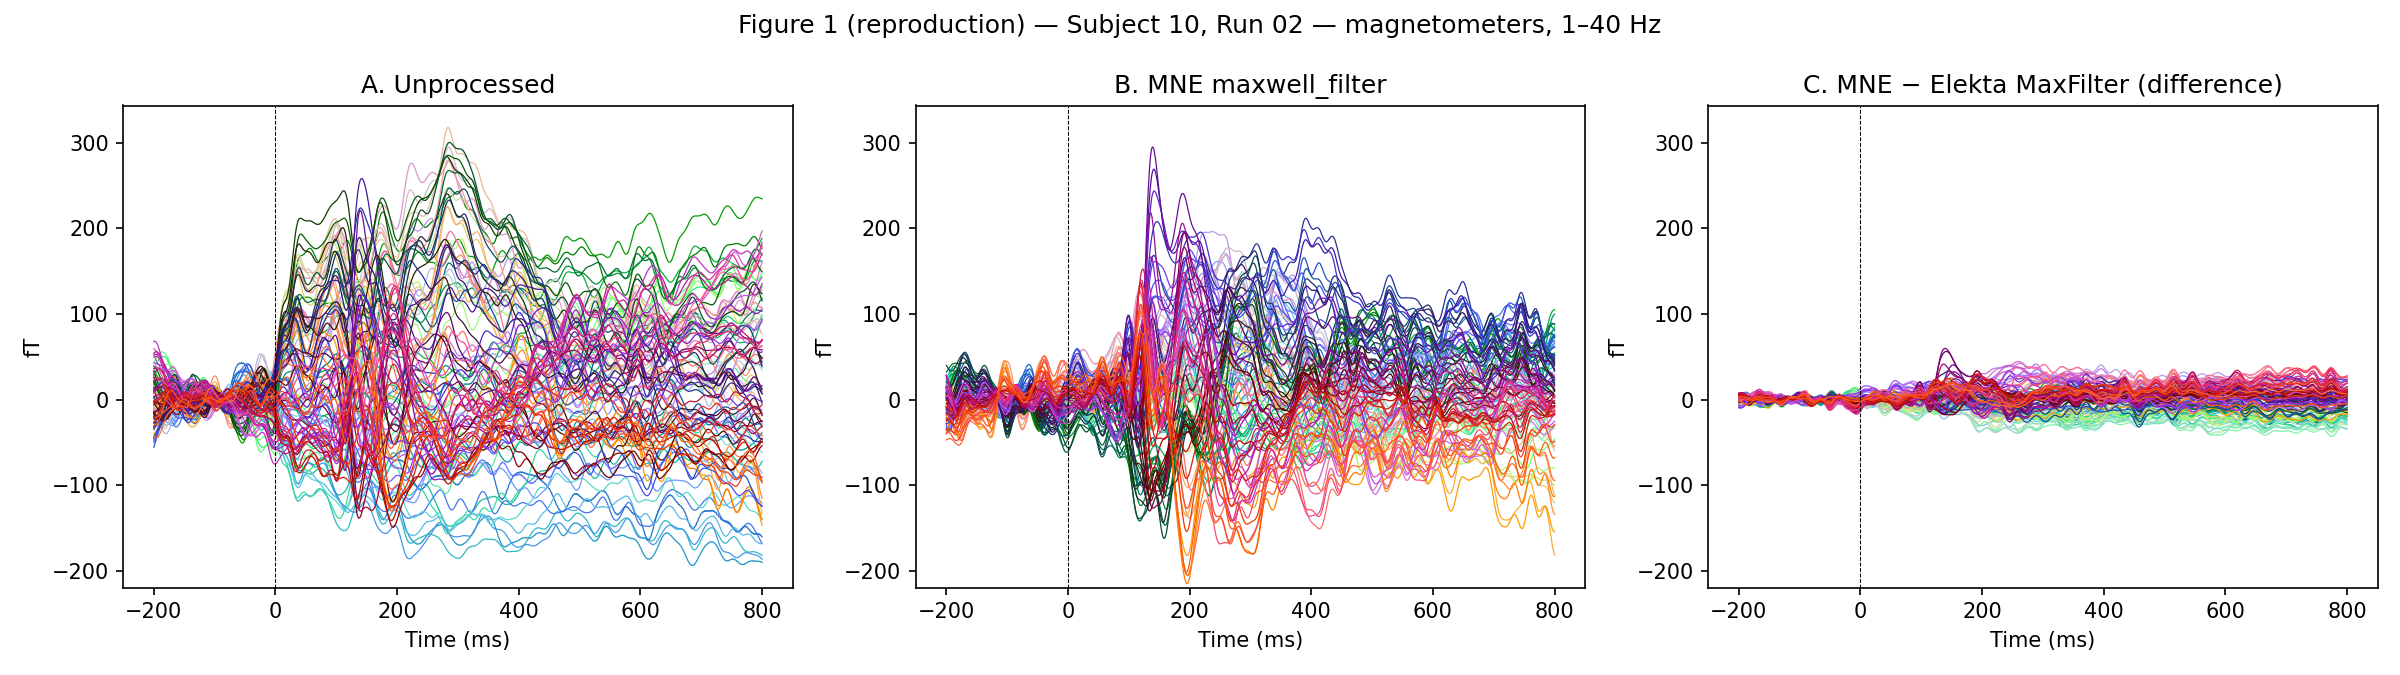
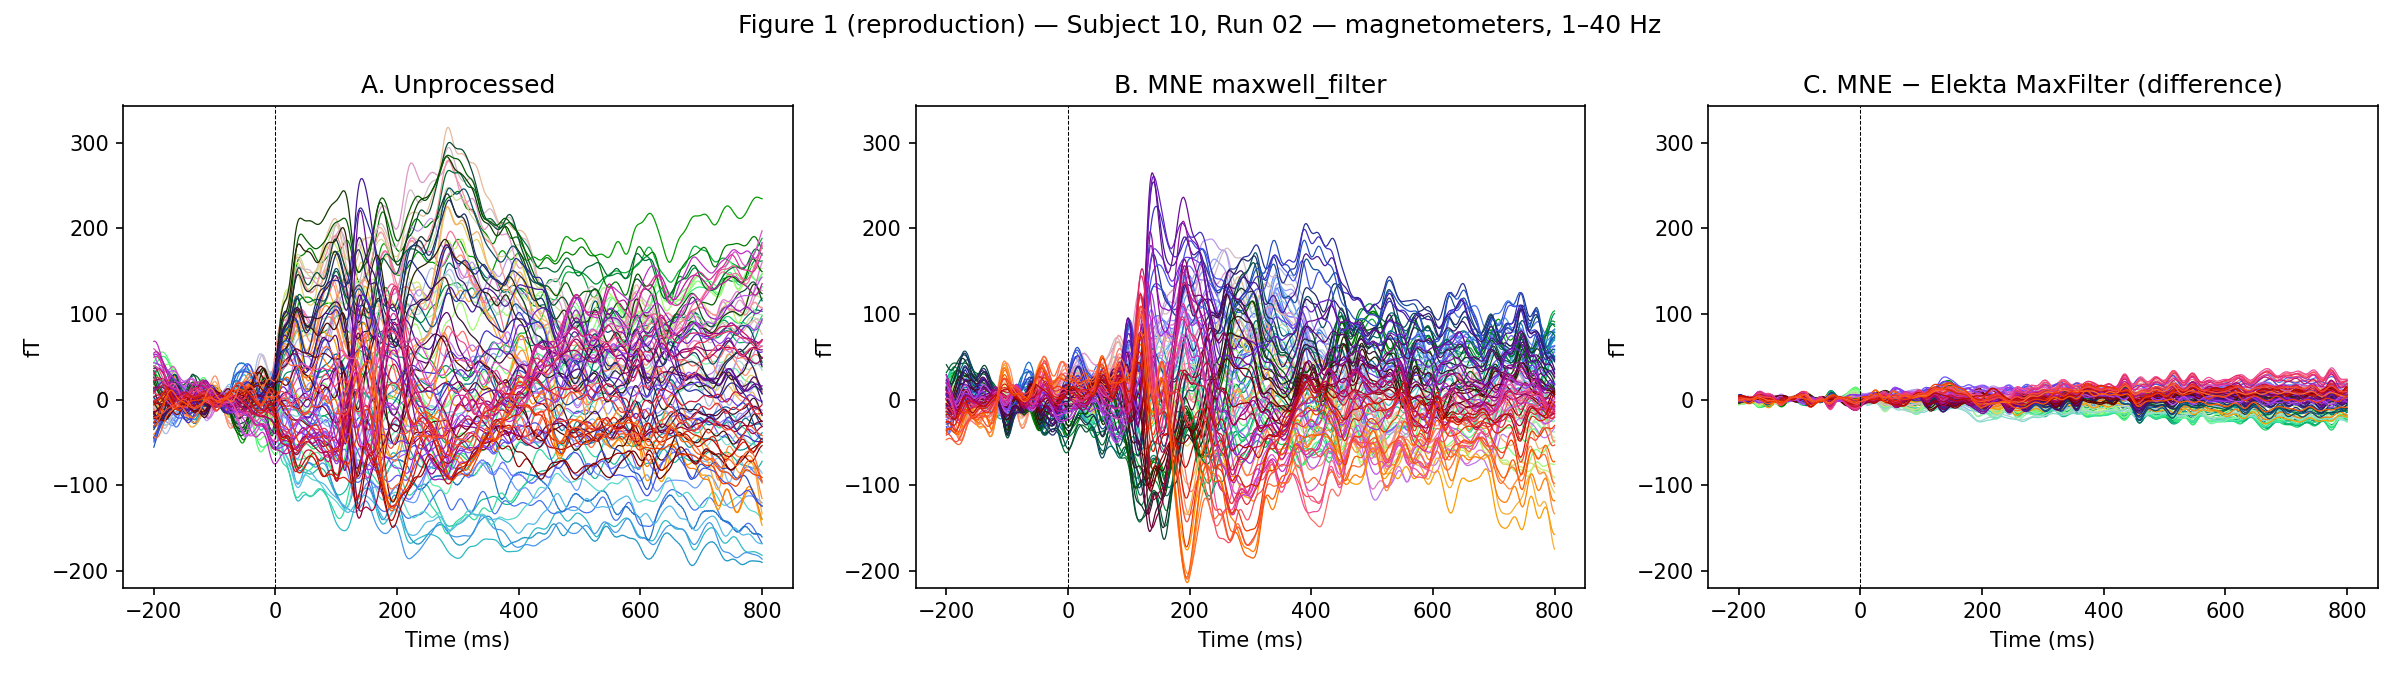
Match Elekta's cross-run destination (run4): Figure 1 panel C now essentially flat
Elekta's MaxFilter run for S10 run02 was aligned to run 4's head position
(trans=run4, per ds000117's derivatives sidecar JSON) rather than run 2's
own -- fetched run 4's raw data (via a fresh fif2mne run, since it wasn't
cached locally) purely to extract its dev_head_t for maxwell_filter's
destination parameter.

On top of the earlier origin fix: evoked diff std vs. Elekta 13.2 -> 10.0
fT, peak 60 -> 37 fT. Panel C is now essentially flat, closely matching
the paper's reference figure.

Changed region(s): [[0.375, 0.2489, 0.6562, 0.84], [0.7188, 0.5289, 1.0, 0.6533]]

diff --git a/local_scripts/WakemanRepro/figures/fig1_maxfilter_comparison.py b/local_scripts/WakemanRepro/figures/fig1_maxfilter_comparison.py
@@ -36,19 +36,24 @@ find_bad_channels_maxwell() (found nothing, with or without calibration
 origin=(0, 0.008, 0.037) matching Elekta's JSON instead of MNE's
 origin="auto" fit, which converged to a substantially different point
 ([0.26, 37.7, 40.5]mm -- MNE's own "more than 20mm from head frame
-origin" warning flagged this). The origin fix roughly halved the
-residual difference from Elekta (evoked diff std 25.8 -> 13.2 fT, peak
-217 -> 60 fT) -- now used here. destination="run4" (cross-run alignment)
-is not yet tried, would need run 4's data too.
+origin" warning flagged this): roughly halved the residual difference
+(evoked diff std 25.8 -> 13.2 fT, peak 217 -> 60 fT); destination=<S10
+run04's raw.fif> (cross-run alignment, matching Elekta's trans=run4 --
+run 4's raw fetched via a fresh fif2mne run since it wasn't cached
+locally yet) on top of that: diff std 13.2 -> 10.0 fT, peak 60 -> 37 fT.
+Both fixes now used here. Remaining ~10 fT residual likely reflects
+hpisubt=amp / linefreq=50 / autobad=on, none of which have a direct MNE
+equivalent tried yet.
 
 Inputs are local files in data_cache/S10_run02/:
   - unprocessed_raw.fif                 <- fif2mne output (re-saved raw, no SSS)
-  - mne_maxwellfilter_origin_meg.fif
+  - mne_maxwellfilter_dest_run4_meg.fif
         <- mne.preprocessing.maxwell_filter(calibration=..., cross_talk=...,
-           origin=(0, 0.008, 0.037)), run locally (NOT the brainlife.io
-           maxwell-filter app's own output -- that app has no wiring for
-           a shared calibration input yet; see mne_maxwellfilter_meg.fif
-           for that app's actual output, kept for reference)
+           origin=(0, 0.008, 0.037), destination=<S10 run04 raw.fif>),
+           run locally (NOT the brainlife.io maxwell-filter app's own
+           output -- that app has no wiring for a shared calibration
+           input yet; see mne_maxwellfilter_meg.fif for that app's actual
+           output, kept for reference)
   - elekta_maxfilter_meg.fif            <- pre-existing "proc-sss" staged
         dataset (subject 10 run02, tags ["proc-sss", "run-02"])
 """
@@ -66,7 +71,7 @@ STIM_CODES = [5, 6, 7, 13, 14, 15, 17, 18, 19]  # Famous/Unfamiliar/Scrambled on
 
 BRANCHES = {
     "A. Unprocessed": DATA_DIR / "unprocessed_raw.fif",
-    "B. MNE maxwell_filter": DATA_DIR / "mne_maxwellfilter_origin_meg.fif",
+    "B. MNE maxwell_filter": DATA_DIR / "mne_maxwellfilter_dest_run4_meg.fif",
 }
 ELEKTA_PATH = DATA_DIR / "elekta_maxfilter_meg.fif"
 

diff --git a/local_scripts/WakemanRepro/Strategy.md b/local_scripts/WakemanRepro/Strategy.md
@@ -18,7 +18,7 @@ Cross-referenced against the actual mne-biomag-group-demo script order and the F
 | Figure | Content | Target script | Brainlife App(s) | Status |
 |---|---|---|---|---|
 | — (read data) | — | `02-extract_events.py` | `fif2mne` | ✅ exists |
-| 1 | raw vs. MNE maxwell_filter vs. Elekta MaxFilter difference | `03-maxwell_filtering.py` | `maxwell-filter` | ✅ **done for S10 run02, close match** — `figures/fig1_maxfilter_comparison.py`, butterfly plot matching the paper's actual A/B/C structure and caption (1–40 Hz, -200 to 800 ms). Uses a local SSS run (calibration/cross_talk + Elekta's exact origin, no app) since the brainlife.io app has no wiring for the shared calibration input yet. Panel C (MNE − Elekta) is now close to flat (evoked diff std 13.2 fT vs. Elekta's own 56.3 fT) — remaining gap traced to origin mismatch (fixed: MNE's `origin="auto"` fit converged ~30mm off from Elekta's documented origin) rather than tSSS/head_pos (tested, no help) or bad channels (MNE's auto-detection finds none). `destination="run4"` cross-run alignment not yet tried |
+| 1 | raw vs. MNE maxwell_filter vs. Elekta MaxFilter difference | `03-maxwell_filtering.py` | `maxwell-filter` | ✅ **done for S10 run02, close match** — `figures/fig1_maxfilter_comparison.py`, butterfly plot matching the paper's actual A/B/C structure and caption (1–40 Hz, -200 to 800 ms). Uses a local SSS run (calibration/cross_talk + Elekta's exact origin + destination aligned to run 4, no app) since the brainlife.io app has no wiring for these shared/cross-run inputs yet. Panel C (MNE − Elekta) is now essentially flat (evoked diff std 10.0 fT vs. Elekta's own 56.3 fT), matching the paper closely. Two fixes got there: explicit `origin=(0,8,37)mm` (MNE's `origin="auto"` fit had converged ~30mm off) and `destination=<run4's raw>` (cross-run alignment, matching Elekta's `trans=run4`). Movement compensation and MNE's auto-bad-channel detection were tested and don't help for this subject/run |
 | 2 | PSD, subject 10 run 02 | (pre-ICA QC) | `psd` / `epoch-psd` | 🛑 **broken** — both call `psd_welch`/`psd_multitaper`/`plot_psd`, all removed from current MNE-Python. Must be fixed before this figure can be produced. |
 | 3 | filter frequency/impulse response, MNE 1.12 | `04-python_filtering.py` | `filter-raw` | ✅ exists for the filtering itself; the response-curve figure is a custom plot pulling filter coefficients, not an App report — build it as a local script |
 | — (bad seg/chan, ICA, epoching) | new diagnostic figures, open-ended | `05-run_ica.py`, `06-make_epochs.py` | `mark-bad-raw`, `ICA-fit`, `ICA-apply`, `epoch`, `drop-bad-epo` | ✅ exist. ⚠ `ICA-plot`/`ICA-fit`'s `main` bash script overwrites the correct `product.json` with a stale base64 heredoc (known bug) — fix opportunistically when we're at this step, not blocking |
@@ -52,8 +52,9 @@ A new standalone tool, `local_scripts/BrainlifePipelineCLI/` (its own git repo, 
 1. Fig 6B already contains a decoding curve — is the brief's separate "decoding figure" phase meant to extend that, or produce something distinct?
 2. Grand-averaging across subjects (needed starting at Fig 5's "all subjects" pass) — local script first per the recommendation above, confirm before Phase 7.
 3. Source-space apps (`obVdo`) — on hold pending your contact with the developer; revisit scope once that's resolved.
-4. Panel C (MNE − Elekta difference) in our Fig 1 is now close to flat but not perfectly so — the remaining gap is most likely `destination="run4"` (Elekta's SSS output for run 2 is aligned to run 4's head position, ours isn't; ds000117's derivatives sidecar JSON documents this explicitly). Closing it needs run 4's data too. Worth pursuing, or good enough as-is?
-5. Should `maxwell-filter` (the app) be hardened with the fuller documented recipe (`calibration`/`cross_talk`/explicit `origin`, all already declared in its config schema, confirmed to matter) rather than running with defaults (`origin="auto"` in particular converged ~30mm off from Elekta's own fit for S10 run02 — worth checking whether that's a one-off or systematic)?
+4. Panel C (MNE − Elekta difference) in our Fig 1 is now essentially flat (evoked diff std 10.0 fT vs. Elekta's own 56.3 fT) after matching Elekta's origin and cross-run destination (run 4). Remaining small residual likely reflects `hpisubt=amp`/`linefreq=50`/`autobad=on` (documented in ds000117's derivatives JSON), none of which have an obvious direct MNE equivalent tried yet — worth chasing further, or is this close enough?
+5. Should `maxwell-filter` (the app) be hardened with the fuller documented recipe (`calibration`/`cross_talk`/explicit `origin`/cross-run `destination`, all already declared in its config schema, all confirmed to matter for S10 run02) rather than running with defaults? `origin="auto"` converged ~30mm off from Elekta's own fit here — worth checking whether that's a one-off or systematic across subjects.
+6. This fix needed run 4's data fetched (via a fresh `fif2mne` run) purely to extract its head position for `destination` alignment — worth doing this systematically (once per subject, reused across that subject's runs) once we move past S10 run02, rather than re-deriving per figure.
 
 ## Next step
 
